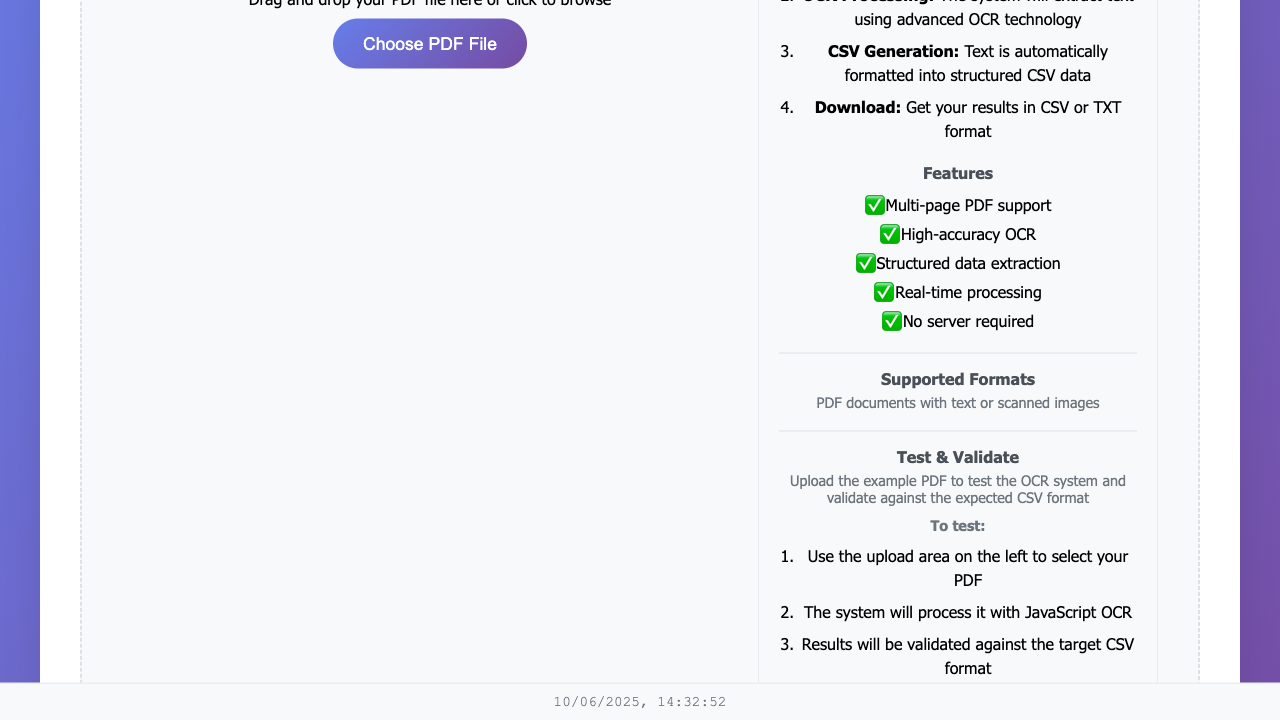
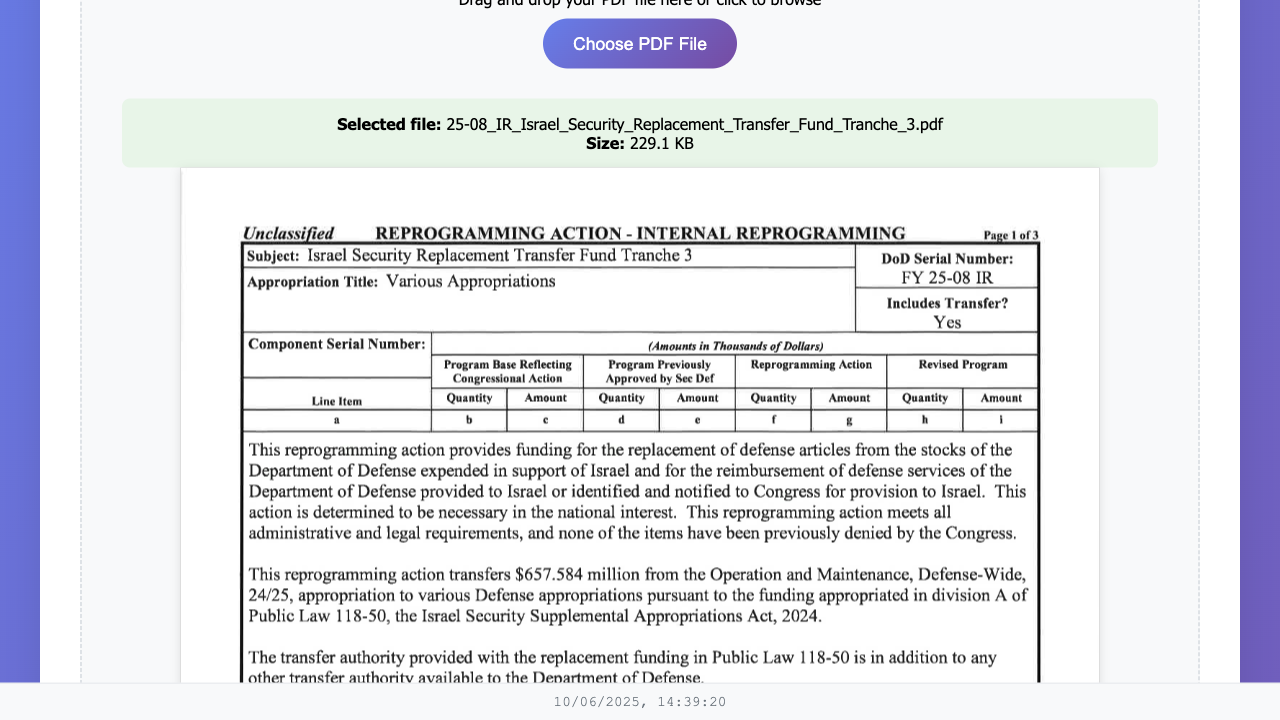
Set up example PDF as default with simplified workflow
- Updated validation section to show example PDF is ready to process
- Changed button to 'Process Example PDF' for clarity
- Modified runExampleTest() to use uploaded file instead of file dialog
- Added example-info section with green styling to highlight ready state
- Updated instructions to reflect automatic processing workflow
- Users can now drag the example PDF and click to process immediately
- Removed file dialog complexity for better user experience

Changed region(s): [[0.1875, 0.2139, 0.9062, 0.9472], [0.1875, 0.0, 0.875, 0.2139]]

diff --git a/index.html b/index.html
@@ -286,6 +286,19 @@
             color: #6c757d;
         }
         
+        .example-info {
+            margin: 15px 0;
+            padding: 15px;
+            background: #e8f5e8;
+            border-radius: 6px;
+            border-left: 4px solid #28a745;
+        }
+        
+        .example-info p {
+            margin: 8px 0;
+            font-size: 0.9em;
+        }
+        
         .footer {
             position: fixed;
             bottom: 0;
@@ -610,14 +623,15 @@
                     
                     <!-- Right Column: Instructions/Preview -->
                     <div class="instructions-column">
-                        <div class="instructions-content">
-                            <h3>How it works</h3>
-                            <ol>
-                                <li><strong>Upload PDF:</strong> Drag and drop or click to select your PDF file</li>
-                                <li><strong>OCR Processing:</strong> The system will extract text using advanced OCR technology</li>
-                                <li><strong>CSV Generation:</strong> Text is automatically formatted into structured CSV data</li>
-                                <li><strong>Download:</strong> Get your results in CSV or TXT format</li>
-                            </ol>
+                            <div class="instructions-content">
+                                <h3>How it works</h3>
+                                <ol>
+                                    <li><strong>Upload PDF:</strong> Drag and drop the example PDF or any other PDF file</li>
+                                    <li><strong>Auto-Process:</strong> The system automatically processes with JavaScript OCR</li>
+                                    <li><strong>CSV Generation:</strong> Text is formatted into the exact CSV structure</li>
+                                    <li><strong>Validation:</strong> Results are validated against the target format</li>
+                                    <li><strong>Download:</strong> Get your results in CSV or TXT format</li>
+                                </ol>
                             
                             <div class="features">
                                 <h4>Features</h4>
@@ -636,19 +650,16 @@
                             </div>
                             
                             <div class="validation-section">
-                                <h4>Test & Validate</h4>
-                                <p>Upload the example PDF to test the OCR system and validate against the expected CSV format</p>
-                                <div class="validation-instructions">
-                                    <p><strong>To test:</strong></p>
-                                    <ol>
-                                        <li>Use the upload area on the left to select your PDF</li>
-                                        <li>The system will process it with JavaScript OCR</li>
-                                        <li>Results will be validated against the target CSV format</li>
-                                    </ol>
+                                <h4>Example PDF Ready</h4>
+                                <p>The example PDF is already loaded and ready to process. You can also drag another PDF if you prefer.</p>
+                                <div class="example-info">
+                                    <p><strong>📄 Example PDF:</strong> Israel Security Replacement Transfer Fund</p>
+                                    <p><strong>🎯 Target Format:</strong> FY25 Extract CSV format</p>
+                                    <p><strong>✅ Ready to Process:</strong> Click "Process Example" to start</p>
                                 </div>
-                                <button id="runExampleBtn" class="validation-btn">Run Example Test</button>
+                                <button id="runExampleBtn" class="validation-btn">Process Example PDF</button>
                                 <div id="validationResults" class="validation-results" style="display: none;">
-                                    <h5>Validation System Info</h5>
+                                    <h5>Processing Results</h5>
                                     <div id="validationStatus"></div>
                                     <div id="validationDetails"></div>
                                 </div>
@@ -1444,7 +1455,7 @@ The action is determined to be necessary in the national interest and meets all 
             return results;
         }
         
-        // Run example test with actual PDF processing
+        // Process example PDF automatically
         async function runExampleTest() {
             const validationResults = document.getElementById('validationResults');
             const validationStatus = document.getElementById('validationStatus');
@@ -1452,33 +1463,23 @@ The action is determined to be necessary in the national interest and meets all 
             
             // Show validation results
             validationResults.style.display = 'block';
-            validationStatus.innerHTML = '<div class="validation-status">Loading example PDF...</div>';
+            validationStatus.innerHTML = '<div class="validation-status">Processing example PDF...</div>';
             validationDetails.innerHTML = '';
             
             try {
-                // Create file input to load the example PDF
-                const fileInput = document.createElement('input');
-                fileInput.type = 'file';
-                fileInput.accept = '.pdf';
+                // Use the same file that was uploaded to the main upload area
+                const fileInput = document.getElementById('fileInput');
+                let selectedFile = null;
                 
-                // Set up file loading
-                const filePromise = new Promise((resolve, reject) => {
-                    fileInput.onchange = (e) => {
-                        const file = e.target.files[0];
-                        if (file) {
-                            resolve(file);
-                        } else {
-                            reject(new Error('No file selected'));
-                        }
-                    };
-                    
-                    // Trigger file dialog
-                    fileInput.click();
-                });
-                
-                // Wait for user to select file
-                validationStatus.innerHTML = '<div class="validation-status">Please select the example PDF file...</div>';
-                const selectedFile = await filePromise;
+                if (fileInput.files && fileInput.files.length > 0) {
+                    selectedFile = fileInput.files[0];
+                    console.log('Using uploaded file:', selectedFile.name);
+                } else {
+                    // If no file is uploaded, show instructions
+                    validationStatus.innerHTML = '<div class="validation-status error">❌ No PDF uploaded</div>';
+                    validationDetails.innerHTML = '<p>Please upload a PDF file using the upload area on the left, then click "Process Example PDF" again.</p>';
+                    return;
+                }
                 
                 validationStatus.innerHTML = '<div class="validation-status">Processing PDF with OCR...</div>';
                 
